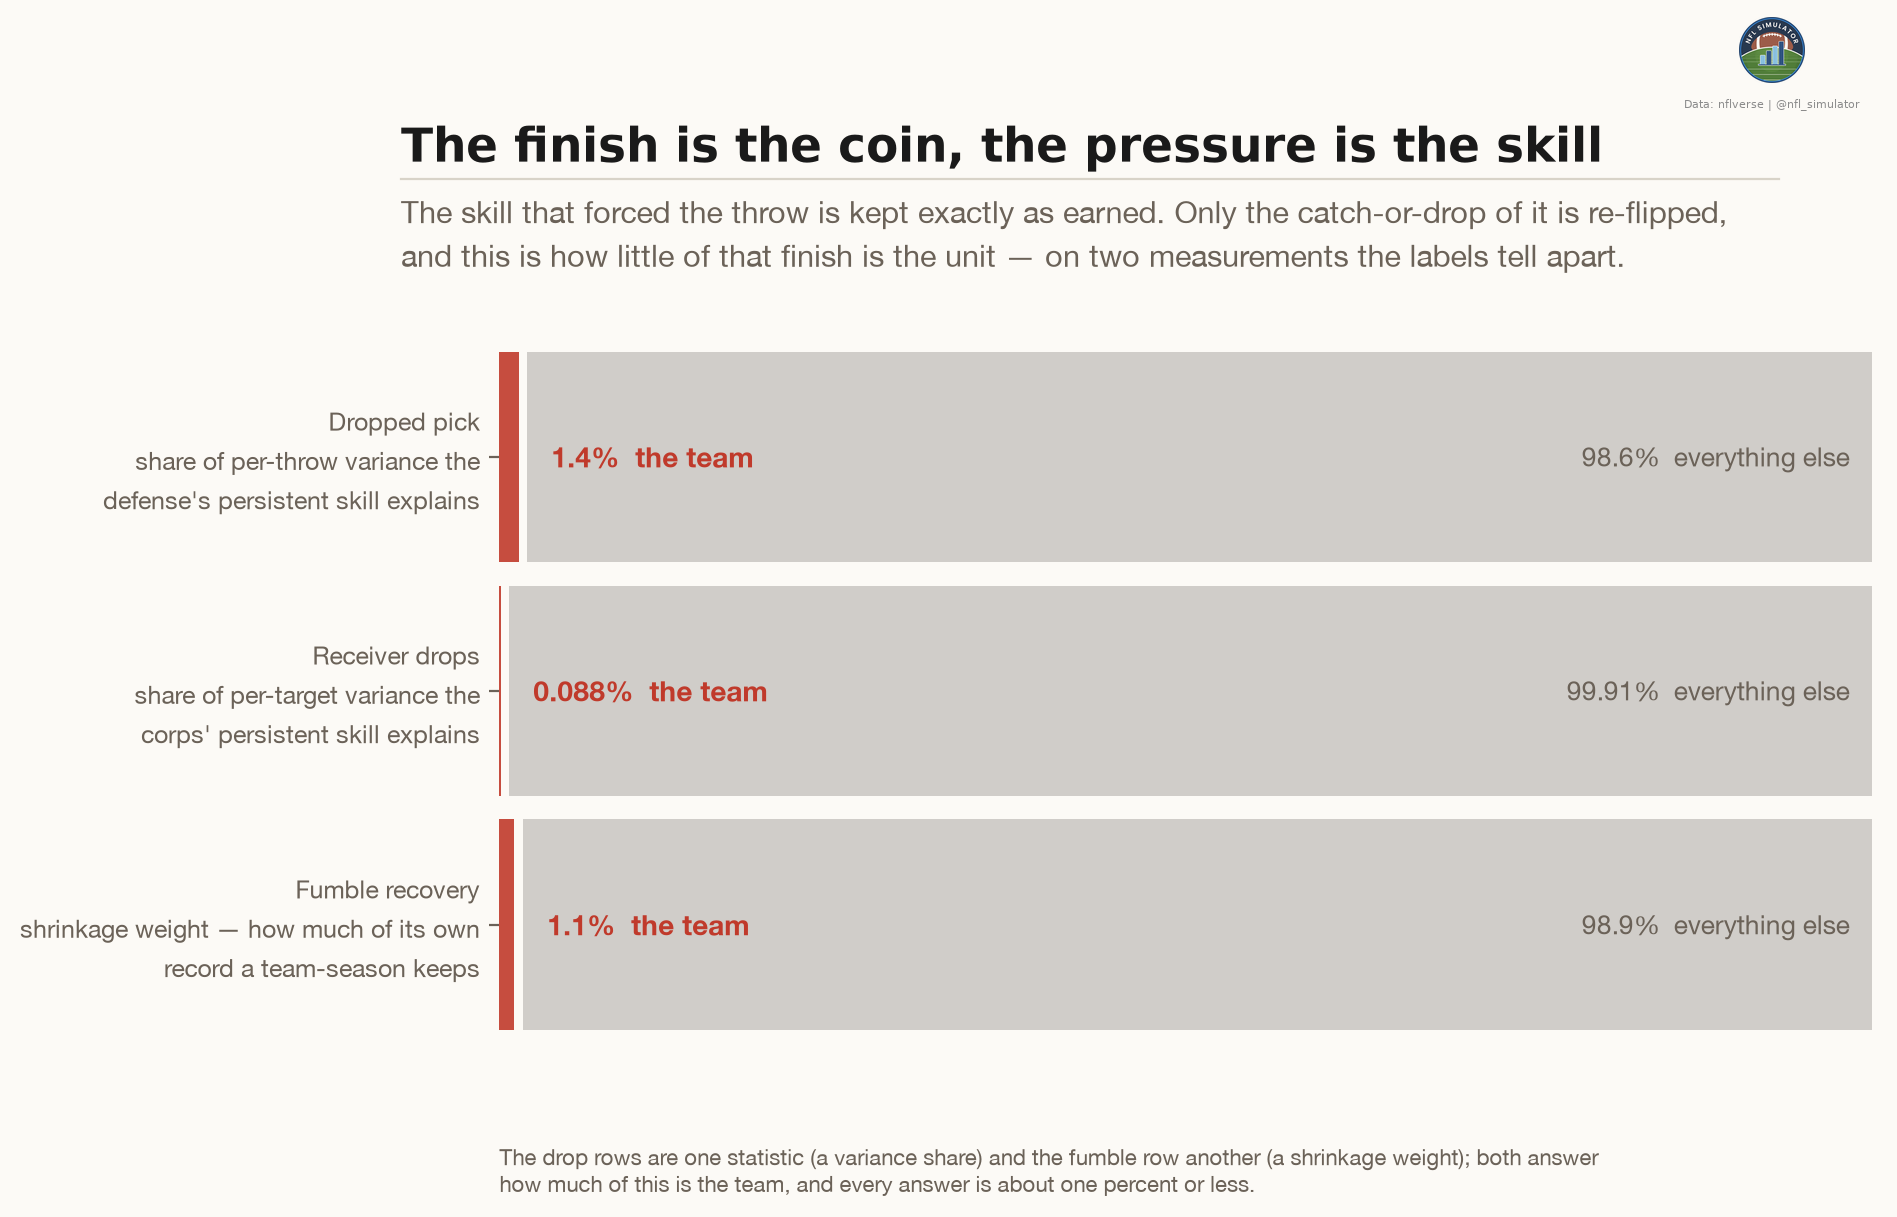
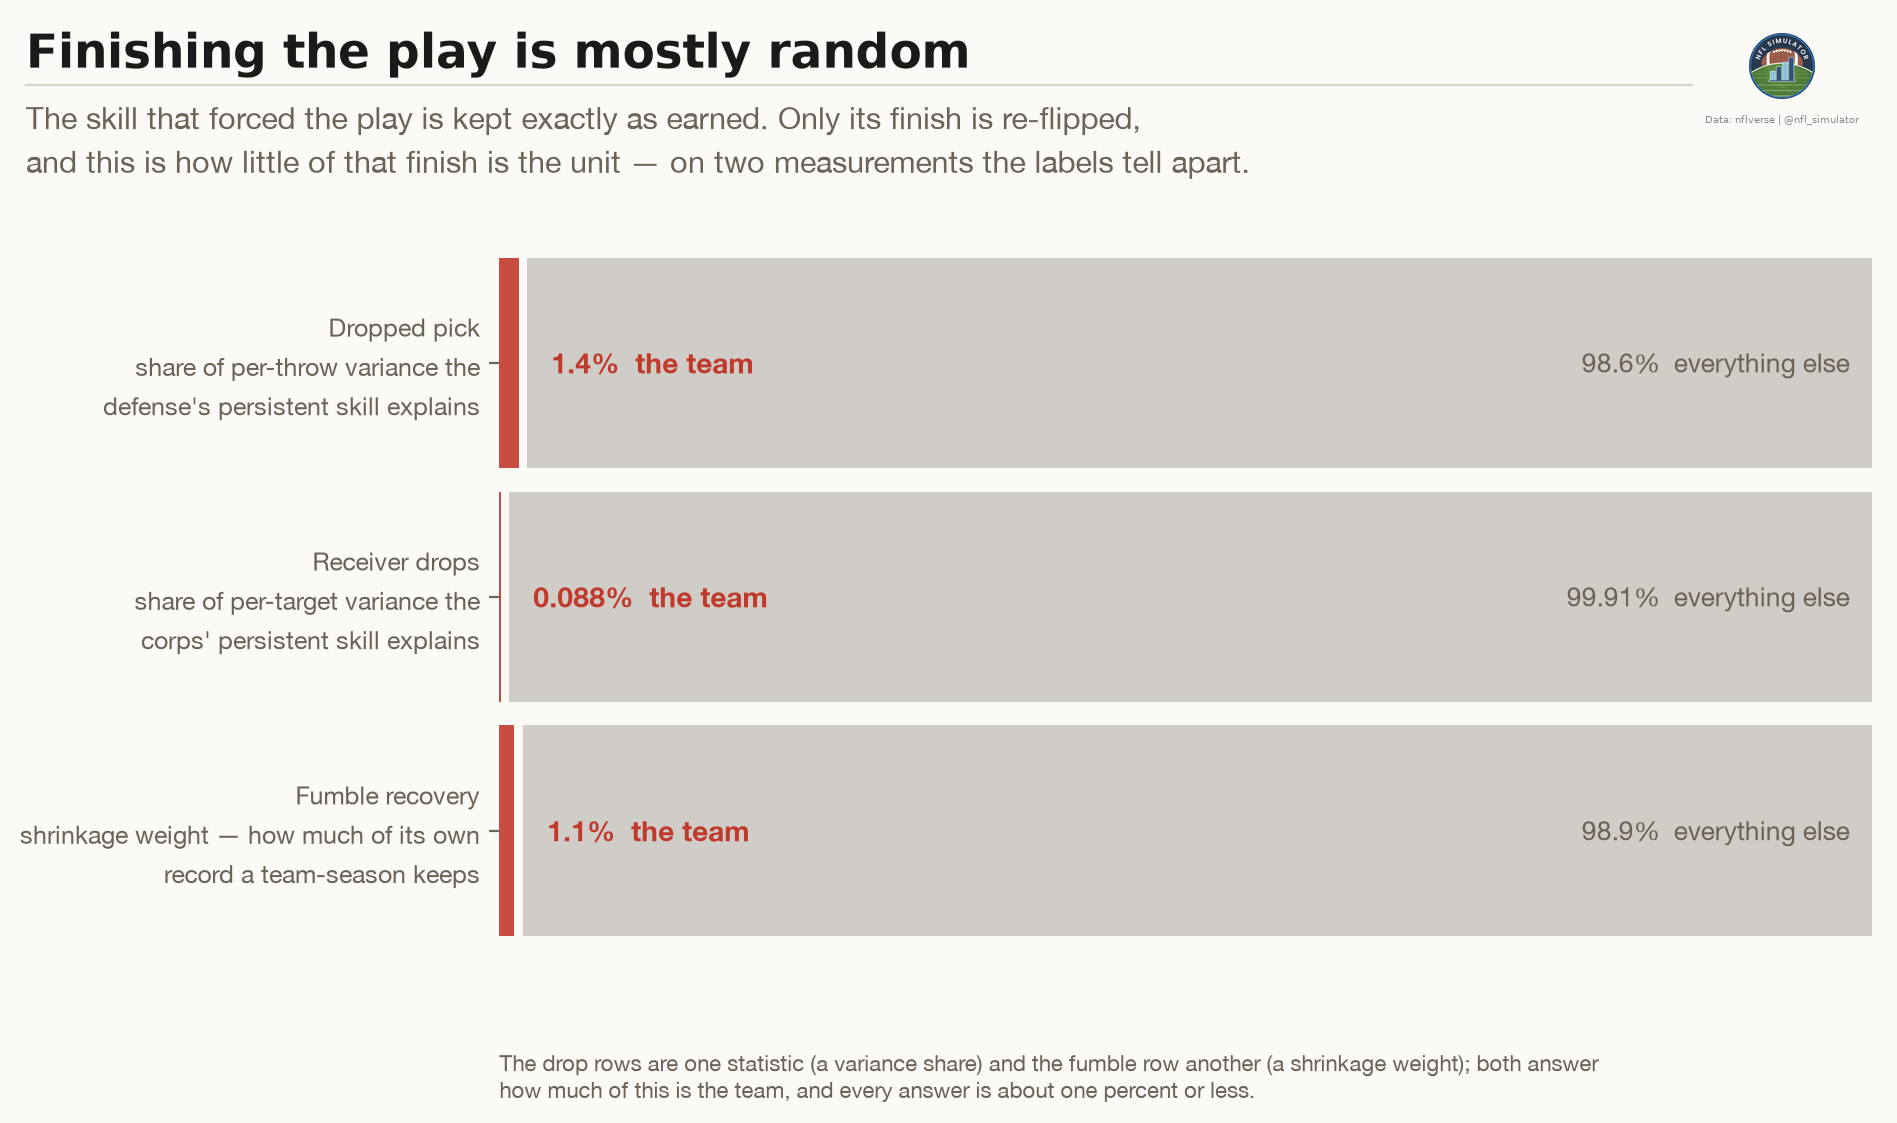
docs(writeup): charter-judgment wording (not 'both hands'), fig 20 retitled and aligned

diff --git a/research/80_writeup_figures.py b/research/80_writeup_figures.py
@@ -2414,10 +2414,10 @@ def persistent_share() -> dict:
     fig, ax = new_figure(
         8.2,
         5.6,
-        title="The finish is the coin, the pressure is the skill",
+        title="Finishing the play is mostly random",
         subtitle=[
-            "The skill that forced the throw is kept exactly as earned. Only the catch-"
-            "or-drop of it is re-flipped,",
+            "The skill that forced the play is kept exactly as earned. Only its finish "
+            "is re-flipped,",
             "and this is how little of that finish is the unit — on two measurements the "
             "labels tell apart.",
         ],
@@ -2483,6 +2483,7 @@ def persistent_share() -> dict:
         fontsize=8,
         color=PALETTE["text_muted"],
     )
+    _align_title_with_ticks(fig, ax)
     name = finalize(fig, FIGURE_DIR / "20_persistent_share.png").name
     return {"file": name, "rows": rows}
 
